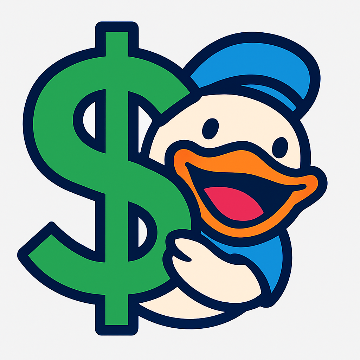
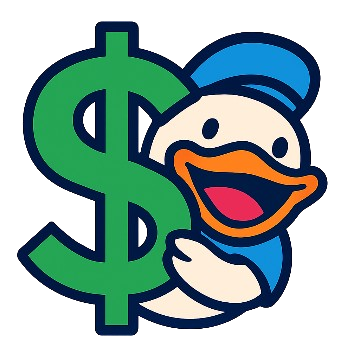
Update Offer Bounty Image, Hidden Offer Layout

diff --git a/frontend/src/components/organism/carOfferCard.tsx b/frontend/src/components/organism/carOfferCard.tsx
@@ -1,5 +1,7 @@
-import { MapPinIcon } from "lucide-react";
+import { MapPinIcon, StarIcon, SparklesIcon } from "lucide-react";
 import { Badge } from "../ui/badge";
+import Image from "next/image";
+import hiddenOfferImage from "@/assets/bountyimg.png";
 
 interface CarOfferCardProps {
   onClick: () => void;
@@ -8,53 +10,92 @@ interface CarOfferCardProps {
 }
 
 export function CarOfferCard({ onClick, isSelected, data }: CarOfferCardProps) {
-  const handleClick = () => {
-    onClick();
-  }
   return (
     <>
       <div
-        className={`p-3 border rounded-lg cursor-pointer transition-all duration-300 ${isSelected
-          ? "border-blue-500 bg-blue-50"
-          : "border-neutral-50 hover:border-blue-500"
-          }`}
-        onClick={handleClick}
+        className={`p-3 border rounded-lg cursor-pointer transition-all duration-300 ${
+          isSelected
+            ? "border-blue-500 bg-blue-50"
+            : "border-yellow-400 border-2 hover:border-yellow-400"
+        }`}
+        onClick={onClick}
       >
         <div className="flex gap-2 rounded-lg w-full">
-          <div
-            className="relative cursor-pointer group"
-          >
-            <div className="w-16 h-16 md:w-24 md:h-24 object-cover rounded transition-transform group-hover:scale-105 text-red-500 md:text-8xl text-5xl font-bold bg-neutral-50 flex items-center justify-center">?</div>
+          <div className="relative cursor-pointer group">
+            <div className="w-16 h-16 md:w-24 md:h-24 relative rounded overflow-hidden">
+              <Image 
+                src={hiddenOfferImage} 
+                alt="car-offer-card" 
+                className="object-cover transition-transform group-hover:scale-105"
+                fill
+                priority={true}
+                loading="eager"
+                quality={75}
+              />
+            </div>
             <div className="absolute inset-0 bg-black opacity-0 group-hover:opacity-20 rounded transition-opacity" />
           </div>
           <div className="flex flex-col justify-between flex-1">
             <div>
-              <div className="text-title-2 md:text-title-1 text-neutral-900">
-                Secret Wash Deal Near You: {data?.offer_price ? `: $${data?.offer_price}` : ""}
+              <div className="flex items-center gap-2">
+                <div className="text-title-2 md:text-title-1 text-neutral-900">
+                  Secret Wash Deal Near You
+                </div>
+                <SparklesIcon className="w-5 h-5 text-yellow-500" />
               </div>
               <div className="text-body-3 md:text-body-2 flex items-center text-neutral-500 mt-1">
                 <MapPinIcon className="w-4 h-4 md:w-5 md:h-5 pr-1" />
-                <div>Unlock the deal
+                <div>
+                  Unlock the deal
                   <span className="px-1">·</span>
                   Just minutes away
                 </div>
               </div>
+              <Badge
+                variant="blue"
+                className="text-title-3 text-white w-fit hidden md:block px-2 py-1 rounded-lg mt-2"
+              >
+                Mystery Wash · WashBuddy Exclusive
+              </Badge>
             </div>
-            <Badge
-              variant="blue"
-              className="text-title-3 text-white w-fit hidden md:block px-2 py-1 rounded-lg mt-2"
-            >
-              Mystery Wash
-              <span className="px-1">·</span>
-              WashBuddy Exclusive
-            </Badge>
+            <div className="md:hidden flex items-center justify-between">
+              <div className="flex items-center gap-0.5">
+                <StarIcon className="w-3.5 h-3.5 text-accent-yellow fill-accent-yellow" />
+                <span className="text-title-2 text-accent-yellow">
+                  {data?.rating || "?"}<span className="text-body-3 text-neutral-300 pl-1">(Secret)</span>
+                </span>
+              </div>
+              <div className="text-headline-4 py-1 text-neutral-900 text-right pl-4">
+                ${data?.offer_price || "3"}
+              </div>
+              <div className="flex-1 text-body-3 text-neutral-900 text-right">
+                Special Offer
+              </div>
+            </div>
+          </div>
+          <div className="hidden md:flex flex-col justify-end border-l border-neutral-50 pl-4">
+            <div className="flex items-center gap-0.5 justify-end">
+              <StarIcon className="w-3.5 h-3.5 text-accent-yellow fill-accent-yellow" />
+              <span className="text-title-2 text-accent-yellow">
+                {data?.rating || "?"}
+              </span>
+              <span className="text-body-3 text-neutral-300">
+                (Secret)
+              </span>
+            </div>
+            <div className="text-headline-4 py-1 text-neutral-900 text-right">
+              ${data?.offer_price || "3"}
+            </div>
+            <div className="flex-1 text-body-3 text-neutral-900 text-right">
+              Special Offer
+            </div>
           </div>
         </div>
         <Badge
           variant="blue"
-          className="text-title-3 text-white w-fit block md:hidden px-2 py-1 rounded-lg mt-2"
+          className="text-title-3 text-white w-fit md:hidden px-2 py-1 rounded-lg mt-2"
         >
-          Nearby Special Washbuddy Price.
+          Mystery Wash · WashBuddy Exclusive
         </Badge>
       </div>
     </>

diff --git a/frontend/src/components/organism/RadarMap.tsx b/frontend/src/components/organism/RadarMap.tsx
@@ -186,8 +186,8 @@ export function RadarMap({
         <div class="relative flex items-center justify-center cursor-pointer">
           <div class="absolute z-10 bottom-1 flex flex-col items-center">
             ${price === "bounty" ? `
-                <div class="flex items-center justify-center scale-[2]">
-                 <img src="/bountyimg.png" alt="Bounty" class="w-12 h-12 object-contain" />
+                <div class="flex items-center justify-center text-4xl">
+                 💰
                 </div>
             <div class="w-0 h-0 border-l-[8px] border-l-transparent border-r-[8px] border-r-transparent border-t-[8px] border-t-white -mt-[1px]"></div>
           ` : `
